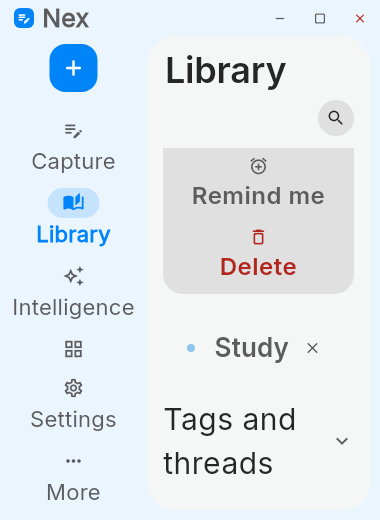
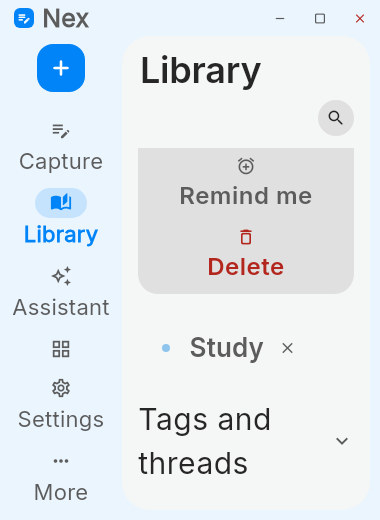
Use readable assistant labels in compact windows
Reuse the existing localized Assistant label so the narrow rail and full section title fit at the requested text size. Check whole words in every window section title and refresh matching evidence after the Windows visual review.

diff --git a/apps/desktop/test/text_scale_controls_test.dart b/apps/desktop/test/text_scale_controls_test.dart
@@ -156,6 +156,20 @@ void main() {
           final c = await bootReview(t, shot, store);
           try {
             final l = AppLocalizations.of(t.element(find.byType(Scaffold)))!;
+            for (final section in [
+              'assistant',
+              'library',
+              'tools',
+              'settings',
+              'capture',
+            ]) {
+              c.selectWindowSection(section);
+              await t.pump();
+              expectFullSizeLabel(
+                t,
+                find.byKey(const ValueKey('window-section-title')),
+              );
+            }
             expectFullSizeLabel(
               t,
               find.byKey(const ValueKey('window-section-title')),

diff --git a/apps/desktop/lib/ui/window_slim_rail.dart b/apps/desktop/lib/ui/window_slim_rail.dart
@@ -27,7 +27,7 @@ class _SlimRail extends StatelessWidget {
       for (final label in [
         l.navCapture,
         l.library,
-        AiStrings.of(context).t('ai'),
+        AiStrings.of(context).t('assistant'),
         l.navTools,
         l.settings,
         l.toolMore,
@@ -122,7 +122,7 @@ class _SlimRail extends StatelessWidget {
                         'assistant',
                         Icons.auto_awesome_outlined,
                         Icons.auto_awesome_rounded,
-                        AiStrings.of(context).t('ai'),
+                        AiStrings.of(context).t('assistant'),
                       ),
                       tile(
                         'tools',

diff --git a/docs/agent-reports/A3.md b/docs/agent-reports/A3.md
@@ -16,6 +16,8 @@ Base: `ca75581`, branch `windows/0.23-agent`. Owner approved Part 3.
 ## Changes and reasons
 
 - The compact rail scrolls its upper destinations independently of the footer.
+  The compact destination uses the existing Assistant/دستیار label so its name
+  fits at normal text size and leaves more room for the page title at 200%.
   At larger text sizes its width is measured from complete localized labels;
   the wide rail also reserves enough room for complete words. No label is scaled
   back down to fit. The 76px compact rail remains unchanged at text scale 1.0.
@@ -78,7 +80,7 @@ Flutter commands run from their package directory.
 | Core analyze/test | Pass, 250 tests |
 | Data analyze/test | Pass, 294 tests, 14 pre-existing skips |
 | Before/after renders | 22 before + 22 after, all inspected |
-| Windows visual refresh | Requested via existing request file; result pending |
+| Windows visual refresh | First run passed; final compact-label refresh pending |
 | `git diff --check` | Pass |
 
 The full desktop run includes version consistency and the A2 keyboard regressions.
@@ -122,8 +124,16 @@ comparison baselines.
 
 ## Published verification
 
-Pending the final local run and Windows refresh. Implementation and report commits
-will be published on `windows/0.23-agent` without rewriting history.
+Implementation: `d9e9211629856addaf6f6b2e21613700fffc2465` on
+`windows/0.23-agent`. The published Git tree matches the tested local tree.
+
+[Windows refresh run 39496178613](https://github.com/sanyzrn/Nex_windows_test/actions/runs/39496178613)
+passed for that exact implementation commit and produced baseline commit
+`d0ea0d830421c2fcdc1ebe4b8718157107d9ad92` (52 new, 33 modified PNGs), all reviewed.
+That review exposed the remaining split English Intelligence title at 380×520/2.0.
+The compact rail now uses the existing shorter Assistant/دستیار label; the
+full title and wide-rail name stay complete. The control regression now checks
+whole words in all five window section titles. A final refresh is requested.
 
 ## Limits and next decision
 

diff --git a/docs/agent-reports/SUMMARY.md b/docs/agent-reports/SUMMARY.md
@@ -1,7 +1,7 @@
 # Windows 0.23 agent work — review summary
 
 Working branch: `windows/0.23-agent`; base `2076ad4`. App stays **0.22.0+16**.
-Implementation commits: `7173404`, `9cd6bdb`, `5c79990`; Windows visual refreshes: `a4f487c`, `13d34a1`.
+Implementation commits: `7173404`, `9cd6bdb`, `5c79990`, `d9e9211`; Windows visual refreshes: `a4f487c`, `13d34a1`.
 A2 refresh run `39455265050` passed with no baseline changes.
 
 | Item | Status | Evidence / remaining work |
